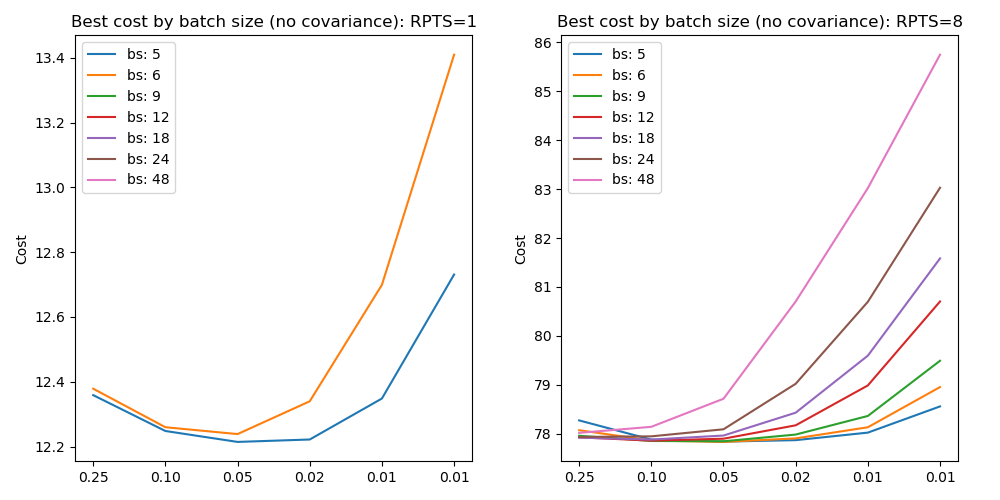
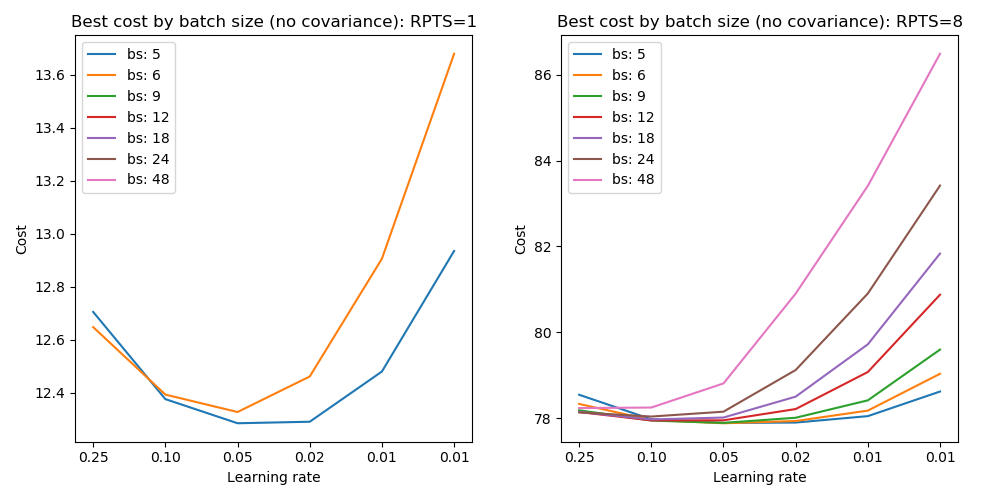
Updated ASL tests to use same structure as biexp tests

diff --git a/doc/tests/asl.rst b/doc/tests/asl.rst
@@ -69,103 +69,99 @@ and fit the model to the repeat-free data. The other is to fit the model to the 
 data including repeats. Naturally this involves a larger data size and hence the possibility
 of a mini-batch approach to the optimization.
 
-Convergence by learning rate
-----------------------------
+As with the biexponential test case, we focus initially on learning rate and sample size
+and subsequently on mini-batch processing as an optimization technique.
 
-The convergence of mean cost by learning rate is shown below with and without
-covariance:
+Learning rate and sample size
+-----------------------------
 
-.. image:: /images/asl/conv_lr_nocov.png
-    :alt: Convergence by learning rate (without covariance)
-
-.. image:: /images/asl/conv_lr_cov.png
-    :alt: Convergence by learning rate (with covariance)
-
-The pattern is closely similar to that obtained using a biexpoential model
-although the convergence here is generally 'cleaner'. Up to 0.25, higher learning
-rates minimise the cost faster, however a learning rate of 0.25 becomes unstable
-with covariance as the minimum is approached. This suggests the use of a 'quenching'
-method (investigated later). Note that these plots show convergence by runtime not
-epochs as this is more relevant to an end user. These plots used a posterior
-sample size of 20 and no mini-batch processing.
-
-Lower learning rates attain eventually attain a better minimum cost, with the 
-optimimum learning rate of 0.1 - 0.05 over most sample sizes, although the 
-repeated data tolerates higher learning rates at large sample sizes.
-
-.. image:: /images/asl/best_cost_lr_ss_nocov.png
-    :alt: Best cost achieved in 500 epochs by learning rate (without covariance)
+The best cost achieved is shown below by learning rate and sample size
+for the full and averaged data. In these tests mini-batch processing was not used,
+and the analytic calculation of the KL divergence was used.
 
 .. image:: /images/asl/best_cost_lr_ss_cov.png
-    :alt: Best cost achieved in 500 epochs by learning rate (with covariance)
+    :alt: Best cost by learning rate and sample size with covariance
 
-Convergence by batch size
--------------------------
+.. image:: /images/asl/best_cost_lr_ss_nocov.png
+    :alt: Best cost by learning rate and sample size without covariance
 
-These tests used a fixed learning rate of 0.1 and sample size of 20. These
-tests are most relevant to the repeated data set since it has a large enough
-number of volumes to make batch processing worthwhile.
+The pattern is similar to that obtained using a biexpoential model, supporting
+learning rates of between 0.1 and 0.05. It is noticeable that the full
+data set is tolerant of smaller sample sizes than in the biexponential case with
+a size of 5 giving a solution close to the optimal. By contrast the averaged
+data requires a larger sample size which may offset the advantage of the smaller
+data set.
 
-.. image:: /images/asl/conv_bs_nocov.png
-    :alt: Convergence by batch size (without covariance)
+We can see this by plotting convergence time to within fixed tolerances of the 
+best overall cost at various sample sizes using a learning rate of 0.1:
 
-.. image:: /images/asl/conv_bs_cov.png
-    :alt: Convergence by batch size (with covariance)
+.. image:: /images/asl/conv_speed_ss_cov.png
+    :alt: Convergence speed by sample size with covariance
 
-Mini batch processing is associated with faster convergence with the best
-convergence achieved with a batch size of 9 which compares well with the 
-optimal batch size of 10 estimated in the biexponential tests. Interestingly
-processing the mean data with a batch size of 5 rather than using the full
-set of 6 repeats also gives faster convergence. However with covariance
-enabled we get instability with smaller batch sizes as convergence approaches
-the minimum.
+.. image:: /images/asl/conv_speed_ss_nocov.png
+    :alt: Convergence speed by sample size with covariance
 
-.. image:: /images/asl/best_cost_lr_bs_nocov.png
-    :alt: Best cost achieved in 500 epochs by batch size (without covariance)
+To attain a result within 2% of the best overall cost when inferring covariance, 
+the time required with the averaged data set (with a sample size of 20) is almost 
+the same as that required on the much larger full data set (with a sample size of 5).
+
+With the full data it is notable that very small sample sizes (2-5) can be used
+successfully and accelerate convergence by a factor of 2-5 compared to the 
+largest sample used (20).
+
+The picture is similar for the runs without covariance however slightly smaller
+samples sizes are better tolerated in all cases.
+
+Use of mini-batch processing to accelerate convergence
+------------------------------------------------------
+
+The use of mini-batch processing is limited for the averaged data as we only
+have 6 time points. However for the 48-point full data we can see if faster
+convergence can be attained with the use of batch processing. 
+
+Since the data set consists of 8 repeats of 6 delay times, a natural idea would
+be to use a batch size of 6, meaning that each batch contains a single repeat
+of all the delay times. We use this value as one possibility, but also consider
+using other batch sizes that do not necessarily correspond to the structure
+of the data.
+
+These tests used a sample size of 5, which 
+was found to be generally optimal for the repeated data set, which is the one we
+are more interested in here.
+
+First we want to determine whether mini-batch processing still attains the
+optimal cost found without the use of batches:
 
 .. image:: /images/asl/best_cost_lr_bs_cov.png
-    :alt: Best cost achieved in 500 epochs by batch size (with covariance)
+    :alt: Best cost achieved by batch size and learning rate
 
-The best cost achieved was largely independent of the batch size for the 
-optimal learning rates between 0.1 and 0.05. However small batch sizes 
-converge better at lower learning rates than large batch sizes and worse
-at higher learning rates, consistent with the results of the biexponential tests.
+.. image:: /images/asl/best_cost_lr_bs_nocov.png
+    :alt: Best cost achieved by batch size and learning rate
+  
+As in the biexponential case, smaller batch sizes work better at lower 
+learning rates, and worse at higher learning rates.
+The previously identified optimum learning rate of 0.1 is tolerant of
+a range of batch sizes, however. It is noticeable that smaller batch sizes can
+attain lower cost than processing the full data set, i.e. the increased
+gradient noise enables a slightly more optimal solution.
 
-Convergence by posterior sample size
-------------------------------------
+However our main motivation for batch processing is to accelerate 
+convergence, so fixing a learning rate of 0.1 we can plot the time
+required to achieve various levels of convergence:
 
-These tests used a fixed learning rate of 0.1 and no mini-batch processing.
+.. image:: /images/asl/conv_speed_bs_cov.png
+    :alt: Convergence speed by sample size with covariance
 
-.. image:: /images/asl/conv_ss_nocov.png
-    :alt: Convergence by sample size (without covariance)
+.. image:: /images/asl/conv_speed_bs_nocov.png
+    :alt: Convergence speed by sample size with covariance
 
-.. image:: /images/asl/conv_ss_cov.png
-    :alt: Convergence by sample size (with covariance)
+We can see that use of smaller batch sizes can accelerate convergence by 
+a factor of 2-3. With covariance, the optimal size is between 12 and 18
+whereas without covariance all batch sizes of 18 or smaller are comparable.
 
-Smaller sample sizes converge faster (as would be expected since the 
-computational demands are essentially proportional to the sample size)
-however a larger sample is needed to get the best cost (this is less
-evident when not inferring covariance). Note however that the cost
-with sample size is not necessarily strictly variational so we cannot
-immediately conclude that a lower cost is better.
+Parameter recovery
+------------------
 
-Similar results are obtained when we use a mini-batch approach for
-the repeated data, with a batch size of 6, however we again see 
-instability in the cost as convergence is approached when inferring
-covariance.
-
-.. image:: /images/asl/conv_ss_bs_6_nocov.png
-    :alt: Convergence by sample size with batch size of 6 (without covariance)
-
-.. image:: /images/asl/conv_ss_bs_6_cov.png
-    :alt: Convergence by sample size with batch size of 6 (with covariance)
-
-Since we cannot directly rely on the variational principle here we can 
-also look at variation of parameter values with sample size. These plots
-are remarkably dull and suggest that the lower free energy achieved at 
-higher sample sizes does not necessarily translate into significant 
-differences in the posterior parameter distributions.
- 
 .. image:: /images/asl/conv_ss_ftiss_nocov.png
     :alt: Convergence of ftiss parameter by sample size (without covariance)
 
